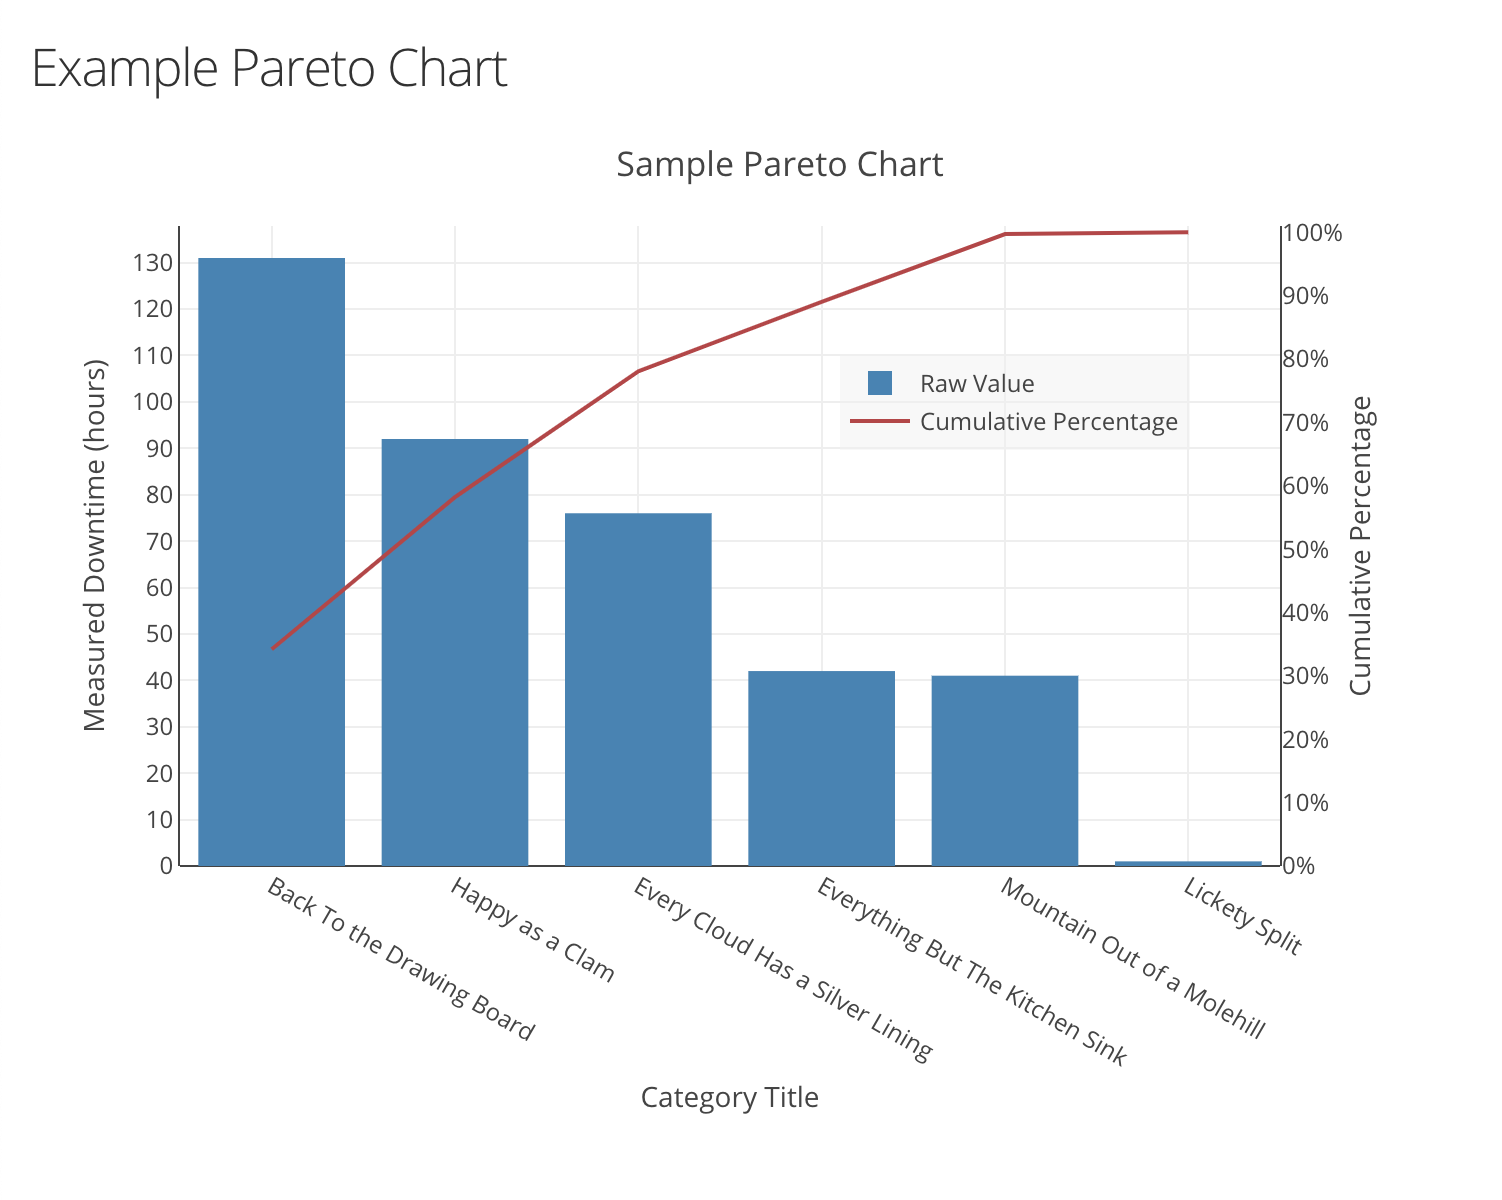
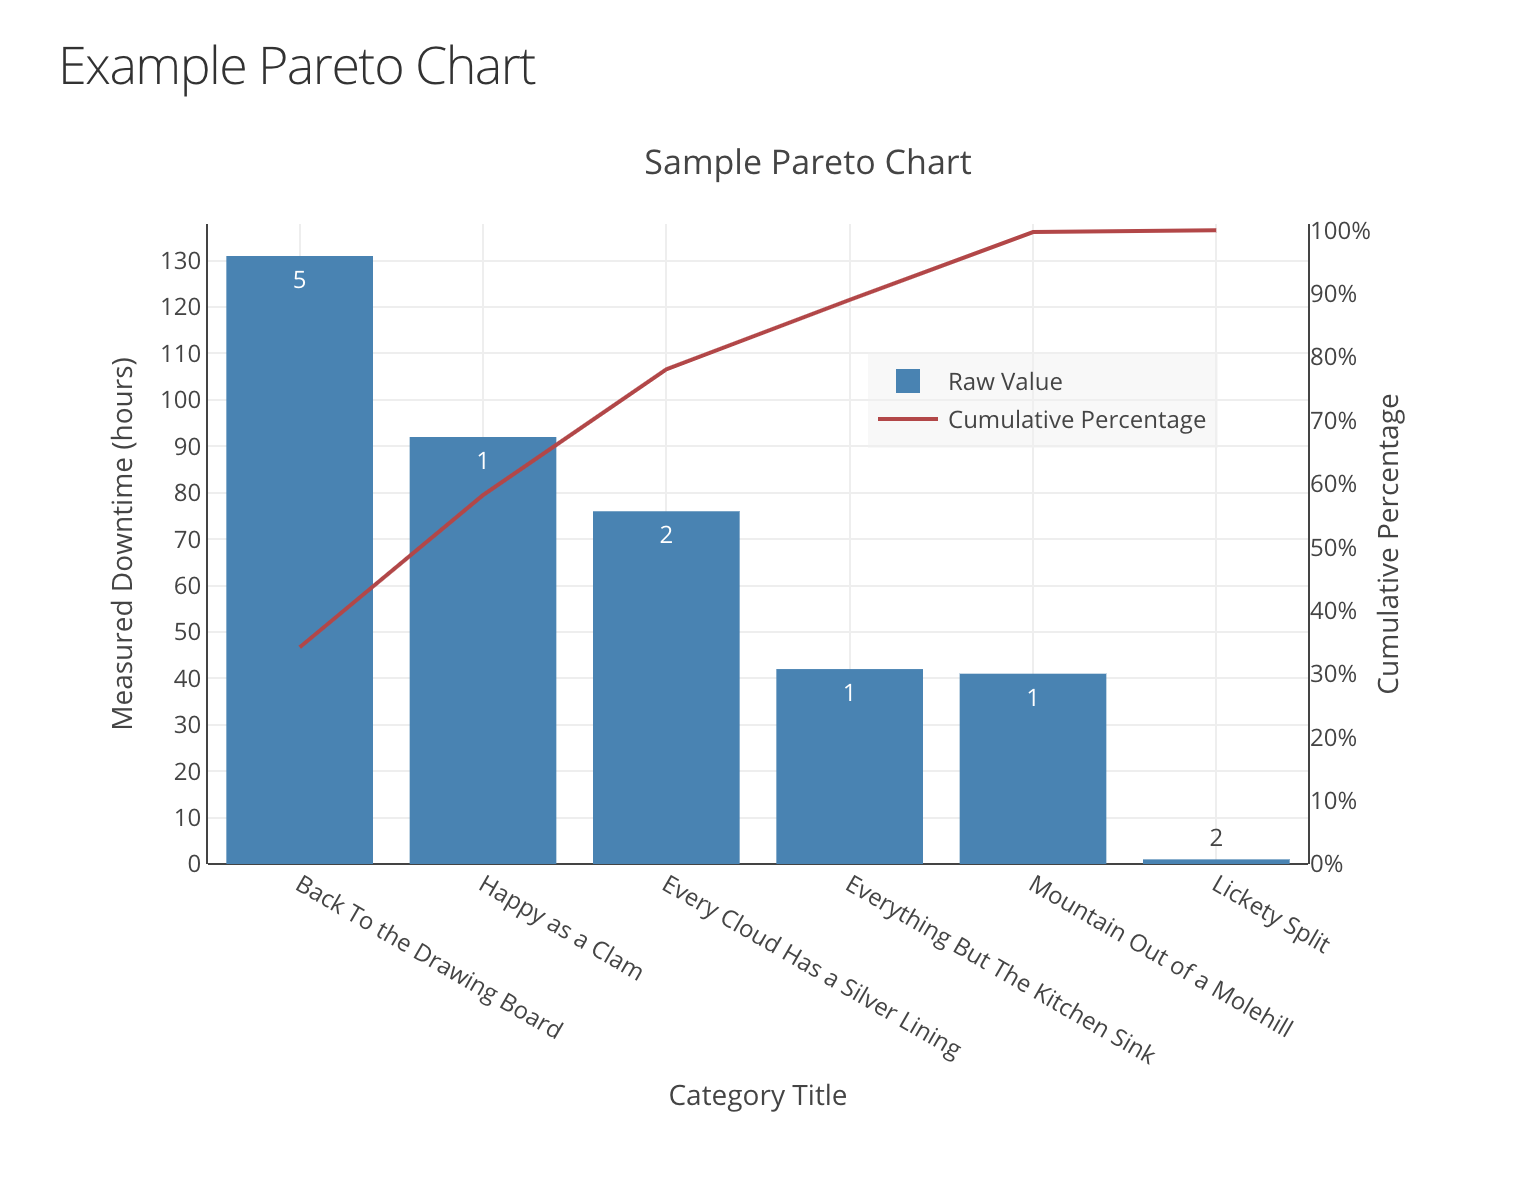
Chg: add optional count to Pareto bars

diff --git a/dash_charts/pareto_chart.py b/dash_charts/pareto_chart.py
@@ -1,5 +1,6 @@
 """Pareto Chart."""
 
+import pandas as pd
 import plotly.graph_objects as go
 
 from . import helpers
@@ -26,21 +27,30 @@ class ParetoChart(helpers.CustomChart):
         self.colors = colors
         self.limitCat = limitCat
 
-    def createTraces(self, df):
+    def createTraces(self, dfRaw, showCount=True):
         """Return traces for plotly chart.
 
-        df -- Pandas dataframe with keys (value, percent)
+        dfRaw -- Pandas dataframe with keys (categories, percent)
 
         """
         # Verify data format
-        expecK = ['value', 'label']
-        foundK = df.keys()
+        expecK = ['value', 'categories']
+        foundK = dfRaw.keys()
         assert all([_k in foundK for _k in expecK]), 'df must have keys {}'.format(expecK)
-
+        # Compress dataframe to only the unique values
+        df = None
+        for cat in dfRaw['categories'].unique():
+            data = {'value': [dfRaw.loc[dfRaw['categories'] == cat]['value'].sum()], 'label': [cat]}
+            if showCount:
+                data['counts'] = dfRaw['categories'].value_counts()[cat]
+            dfRow = pd.DataFrame(data=data)
+            df = dfRow if df is None else df.append(dfRow)
         # Sort and calculate percentage
         df = df.sort_values(by=['value'], ascending=False).head(self.limitCat)
         df = df[df['value'] != 0]
         df['cumPer'] = df['value'].divide(df['value'].sum()).cumsum()
+        # Add auto-generated count to each bar
+        textKwargs = {'text': df['counts'], 'textposition': 'auto'} if showCount else {}
 
         chartData = [
             go.Bar(
@@ -50,6 +60,7 @@ class ParetoChart(helpers.CustomChart):
                 x=df['label'],
                 y=df['value'],
                 yaxis='y1',
+                **textKwargs,
             ),
         ] + [
             go.Scatter(

diff --git a/examples/ex_pareto_chart.py b/examples/ex_pareto_chart.py
@@ -2,11 +2,11 @@
 
 from pathlib import Path
 
-from icecream import ic
 import dash_html_components as html
 import pandas as pd
 from dash_charts import helpers
 from dash_charts.pareto_chart import ParetoChart
+from icecream import ic
 
 
 class ParetoDemo:
@@ -47,25 +47,23 @@ class ParetoDemo:
 
     def _generateData(self):
         """Create self.dfPareto with sample data."""
-        df = pd.read_csv(Path(__file__).parent / 'DowntimeData.csv')
-        # Example looping raw data to create the data/label dataframe expected by ParetoChart()
-        self.dfPareto = None
-        for cat in df['categories'].unique():
-            downtime = df.loc[df['categories'] == cat]['downtime'].sum()
-            dfRow = pd.DataFrame(data={'value': [downtime], 'label': [cat]})
-            self.dfPareto = dfRow if self.dfPareto is None else self.dfPareto.append(dfRow)
+        self.dfPareto = pd.read_csv(Path(__file__).parent / 'DowntimeData.csv')
+        self.dfPareto = self.dfPareto.rename(columns={'downtime': 'value'})
         ic(self.dfPareto)
 
     def _createLayout(self):
         """Create application layout."""
         self.app.layout = html.Div(
-            className='section',
-            children=[
+            className='section', style={
+                'max-width': '1000px',
+                'margin-right': 'auto',
+                'margin-left': 'auto',
+            }, children=[
                 html.H4(children='Example Pareto Chart'),
                 html.Div([
                     helpers.MinGraph(
                         id='pareto-chart',
-                        figure=self.exPareto.createFigure(df=self.dfPareto),
+                        figure=self.exPareto.createFigure(df=self.dfPareto, showCount=True),
                     ),
                 ]),
             ],

diff --git a/README.md b/README.md
@@ -106,12 +106,10 @@ Useful Dash reference links
 
 ## TODO
 
-- FIXME: Capture new `ex_coordinate_chart-circles.png` with fixed subplot titles from demo
-- FIXME: Finish implementing the calendar view
-- FIXME: Enable stacked subplots for multiple years of calendar charts (Subplot title is year)
-
 - FIXME: Enable the marginal charts for the alignment chart
+- FIXME: Enable stacked subplots for multiple years of calendar charts (Subplot title is year)
 - FIXME: Add the 3D version of the Coordinate chart
+- FIXME: Add a tree map?
 - Review [Grammar of Graphics](https://towardsdatascience.com/a-comprehensive-guide-to-the-grammar-of-graphics-for-effective-visualization-of-multi-dimensional-1f92b4ed4149)
 - Checkout the v2 Table Filtering in Dash 0.43 / https://dash.plot.ly/datatable
     - [Filtering Syntax](https://dash.plot.ly/datatable/filtering)

diff --git a/CHANGELOG-raw.md b/CHANGELOG-raw.md
@@ -7,6 +7,7 @@ Changelog
 
 New
 ~~~
+- Create YearGrid and MonthGrid. [Kyle King]
 - Subtitles for each plot in coordinate chart. [Kyle King]
 - Log colors for coordinate chart. [Kyle King]
 - Coordinate chart. [Kyle King]
